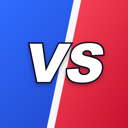
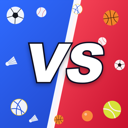
현황판: 앱마다 바로가기(App Store·Google Play·웹) 버튼 + 매치메이커 VS 아이콘에 여러 종목 공 흩뿌리기

diff --git a/ops.html b/ops.html
@@ -37,6 +37,10 @@ h2.pg{margin:0;font-size:20px;font-weight:700}.sub{color:var(--mu);font-size:13p
 .st svg{width:11px;height:11px;flex:none}.st svg:not(.gp) path{fill:currentColor}
 .st.live{color:var(--ok);border-color:#bbf7d0;background:#f0fdf4}.st.review{color:var(--blue);border-color:#bfdbfe;background:#eff6ff}.st.test{color:var(--warn);border-color:#fde68a;background:#fffbeb}.st.plan{color:var(--vio);border-color:#ddd6fe;background:#f5f3ff}
 .sts{display:none}
+.lk{display:flex;gap:6px;flex-wrap:wrap;margin-top:12px}.lk a{display:inline-flex;align-items:center;gap:6px;border:1px solid var(--li2);border-radius:8px;padding:6px 11px;font-size:13px;font-weight:600;color:var(--tx);text-decoration:none;background:#fff}
+.lk a:hover{background:var(--soft)}.lk svg{width:14px;height:14px}.lk svg:not(.gp) path{fill:currentColor}
+.lk.sm{margin-top:10px}.lk.sm a{padding:4px 8px;font-size:12px;border-radius:6px}.lk.sm svg{width:12px;height:12px}
+.card:focus-visible{outline:2px solid var(--ac)}
 .crumb{font-size:13px;color:var(--mu);margin-bottom:10px}.crumb a{color:var(--mu);text-decoration:none}.crumb a:hover{color:var(--tx)}
 .ph{display:flex;align-items:center;gap:12px;flex-wrap:wrap}.ph img{width:48px;height:48px;border-radius:12px;box-shadow:0 1px 3px rgba(0,0,0,.12)}.ph .sp{flex:1}
 .ph a.go{border:1px solid var(--li2);border-radius:8px;padding:7px 12px;color:var(--tx);text-decoration:none;font-size:13px;font-weight:600}
@@ -54,7 +58,7 @@ details.tg summary::-webkit-details-marker{display:none}details.tg summary:after
 .login{text-align:center;padding:90px 20px;color:var(--mu)}.login button{margin-top:14px;background:var(--ac);color:#fff;border:0;border-radius:8px;padding:12px 22px;font-size:15px;font-weight:600}
 .empty{color:var(--mu);text-align:center;padding:40px}
 @media(max-width:899px){aside{display:none}main{padding:18px 16px 50px}.stats{grid-template-columns:repeat(2,1fr)}.grid{grid-template-columns:repeat(2,1fr);gap:8px}
- .thumb{height:64px}.thumb img{width:40px;height:40px;border-radius:10px}.card{padding:10px}.card .nm{font-size:14px}.card .nb b{font-size:15px}.stl{display:none}.sts{display:inline}.who .em{display:none}.srch{flex:1 1 100%}}
+ .thumb{height:64px}.thumb img{width:40px;height:40px;border-radius:10px}.card{padding:10px}.card .nm{font-size:14px}.card .nb b{font-size:15px}.stl{display:none}.sts{display:inline}.who .em{display:none}.lk.sm a span{display:none}.lk.sm a{padding:6px 9px}.srch{flex:1 1 100%}}
 </style></head><body>
 <div class="top"><h1 onclick="go('')"><img src="ops-ic/ops-180.png" alt="">앱 통합 현황</h1><div class="who" id="who"></div></div>
 <div class="shell"><aside id="side"></aside><main id="app"><p class="empty">불러오는 중…</p></main></div>
@@ -102,7 +106,9 @@ function side(A,s,v){const ks=order(A);
  $('side').innerHTML=`<a href="#" class="${v?'':'on'}">📋 전체 앱 현황</a><div class="sec">앱</div>`+ks.map(k=>{const n=hiCount(k,A[k],s);return `<a href="#${k}" class="${v===k?'on':''}"><img src="ops-ic/${k}.png" alt="">${esc(A[k].name)}${n?`<span class="dt">${n}</span>`:''}</a>`}).join('')}
 function card(k,a,s){const hd=HEAD[k]||[],b=SB(s,k),n=hiCount(k,a,s),store=/^(live|review|test)$/.test(a.st);
  const ft=[];if(store)ft.push(b&&b.rating?`<span>★ ${(+b.rating).toFixed(1)} · 리뷰 ${b.count||0}</span>`:'<span>★ —</span>');if(b&&b.fresh)ft.push(`<span class="r">새 리뷰 ${b.fresh}</span>`);ft.push(n?`<span class="t">할 일 ${n}</span>`:'<span>할 일 0</span>');
- return `<button class="card" onclick="go('${k}')">${n?`<span class="dt">${n}</span>`:''}<div class="thumb"><img src="ops-ic/${k}.png" alt=""></div><div class="hd"><span class="nm">${esc(a.name)}</span><span class="ln">${stb('ios',a.ios)}${stb('android',a.android)}</span></div><div class="nb">${hd.map(x=>`<span><b>${kv(a,x)}</b><small>${esc(x)}</small></span>`).join('')}</div><div class="ft">${ft.join('')}</div></button>`}
+ return `<div class="card" role="button" tabindex="0" onclick="go('${k}')">${n?`<span class="dt">${n}</span>`:''}<div class="thumb"><img src="ops-ic/${k}.png" alt=""></div><div class="hd"><span class="nm">${esc(a.name)}</span><span class="ln">${stb('ios',a.ios)}${stb('android',a.android)}</span></div><div class="nb">${hd.map(x=>`<span><b>${kv(a,x)}</b><small>${esc(x)}</small></span>`).join('')}</div><div class="ft">${ft.join('')}</div>${lnk(a,1)}</div>`}
+// 바로가기(10/30 사용자 «각 앱에서 앱이나 웹으로 바로가기») — apps.json links=[[로고,이름,주소]]
+function lnk(a,small){const l=a.links||[];if(!l.length)return'';return `<div class="lk${small?' sm':''}">${l.map(([g,n,u])=>`<a href="${esc(u)}" target="_blank" rel="noopener" onclick="event.stopPropagation()">${LOGO[g]||''}<span>${esc(n)}</span></a>`).join('')}</div>`}
 function overview(A,s){const ks=order(A),c={};ks.forEach(k=>{const t=A[k].st||'web';c[t]=(c[t]||0)+1});
  const tot=ks.reduce((m,k)=>m+hiCount(k,A[k],s),0),FL=[['all','전체'],['live','출시'],['test','테스트'],['plan','등록 예정'],['web','웹 전용']];
  const vis=ks.filter(k=>(F==='all'||A[k].st===F||(F==='test'&&[A[k].ios,A[k].android].some(x=>x&&x[0]==='test')))&&(!Q||A[k].name.includes(Q)||(A[k].full||'').includes(Q)));
@@ -115,7 +121,7 @@ function overview(A,s){const ks=order(A),c={};ks.forEach(k=>{const t=A[k].st||'w
  if(s.need&&s.need.length)h+=`<p class="sub" style="margin-top:18px">스토어 API 미연결: ${esc(s.need.join(', '))} — 연결되면 별점·리뷰·다운로드가 카드에 떠요</p>`;
  return h}
 function detail(k,a,s){const lk=LINK[k],t=todo(k,a,s);
- let h=`<div class="crumb"><a href="#">전체 앱 현황</a> / ${esc(a.name)}</div><div class="ph"><img src="ops-ic/${k}.png" alt=""><div><h2 class="pg">${esc(a.full||a.name)}</h2><div class="ln" style="display:flex;gap:4px;margin-top:4px">${stb('ios',a.ios)}${stb('android',a.android)}</div></div><span class="sp"></span>${lk?`<a class="go" href="${lk[0]}">${lk[1]} ↗</a>`:''}</div>`;
+ let h=`<div class="crumb"><a href="#">전체 앱 현황</a> / ${esc(a.name)}</div><div class="ph"><img src="ops-ic/${k}.png" alt=""><div><h2 class="pg">${esc(a.full||a.name)}</h2><div class="ln" style="display:flex;gap:4px;margin-top:4px">${stb('ios',a.ios)}${stb('android',a.android)}</div></div><span class="sp"></span>${lk?`<a class="go" href="${lk[0]}">${lk[1]} ↗</a>`:''}</div>${lnk(a)}`;
  h+=`<div class="kp">${(a.kpi||[]).map(([n,v])=>`<div class="stat"><span>${esc(n)}</span><b>${v}${diff(k,n,v)}</b></div>`).join('')}</div>`;
  if(t.length)h+=`<div class="box todo"><h3>할 일</h3>${t.map(([lv,x])=>`<div><span class="lv ${lv}">${{hi:'지금',md:'대기',lo:'참고'}[lv]}</span><span>${esc(x)}</span></div>`).join('')}</div>`;
  const info=[];if(a.req){const r=a.req;info.push(`악보 요청 — 전체 <b>${r.total}</b> · 이번 주 <b>${r.week}</b> · 진행 중 <b>${r.open}</b> · 자동 올림 <b>${r.auto}</b> · 실패 <b>${r.no}</b> · 고쳐 주세요 <b>${r.fix}</b>`)}
@@ -139,7 +145,7 @@ function draw(){if(!L){$('app').innerHTML='<p class="empty">아직 모은 자료
  const q=$('q');if(q){q.oninput=()=>{Q=q.value.trim();const p=q.selectionStart;draw();const n=$('q');n.focus();n.setSelectionRange(p,p)}}
  document.querySelectorAll('details.tg').forEach(d=>d.ontoggle=()=>{d.open?OPEN.add(d.dataset.o):OPEN.delete(d.dataset.o)})}
 if(/[?&]mock=1/.test(location.search)){const n=Date.now();
- L={t:n-3600e3,store:{need:['앱스토어','구글 플레이'],byApp:{club:{rating:4.8,count:12,fresh:1},wereplay:{rating:5,count:2}},reviews:[{k:'club',r:5,t:'편해요',b:'출석 체크가 쉬워졌어요',at:n-8e7}]},apps:{club:{order:1,name:'모스',full:'모스: 모두의 스포츠클럽',icon:'🎾',st:'live',ios:['live','출시 · 1.1.2 심사 중'],android:['live','출시'],kpi:[['가입',46],['7일 새 가입',30],['7일 접속',36],['클럽',7]],list:[{n:'테니홀릭',m:30,a:n-9e8}]},
+ L={t:n-3600e3,store:{need:['앱스토어','구글 플레이'],byApp:{club:{rating:4.8,count:12,fresh:1},wereplay:{rating:5,count:2}},reviews:[{k:'club',r:5,t:'편해요',b:'출석 체크가 쉬워졌어요',at:n-8e7}]},apps:{club:{links:[['ios','App Store','#'],['android','Google Play','#'],['web','웹','#']],order:1,name:'모스',full:'모스: 모두의 스포츠클럽',icon:'🎾',st:'live',ios:['live','출시 · 1.1.2 심사 중'],android:['live','출시'],kpi:[['가입',46],['7일 새 가입',30],['7일 접속',36],['클럽',7]],list:[{n:'테니홀릭',m:30,a:n-9e8}]},
  wereplay:{order:2,name:'위리',icon:'📹',st:'live',ios:['live','출시 · 1.0'],android:['test','내부 테스트'],kpi:[['경기 기록',50],['오늘',6],['7일',22],['30일',48],['라이브 방',28]],kinds:{tennis:30,volleyball:10}},
  weband:{order:3,name:'위밴드',icon:'🎸',st:'plan',ios:['plan','등록 예정'],android:['plan','등록 예정'],kpi:[['밴드',10],['멤버',30],['7일 활동 밴드',6]],req:{total:5,week:5,open:1,auto:2,done:3,no:1,fix:1,fixOpen:1},list:[{n:'WePlay',c:'9932',m:6,a:n-5e6}]},
  mmpro:{order:4,name:'매치메이커',icon:'🏆',st:'plan',ios:['plan','등록 예정'],android:['plan','등록 예정'],kpi:[['대회',20],['세션',8]]},
